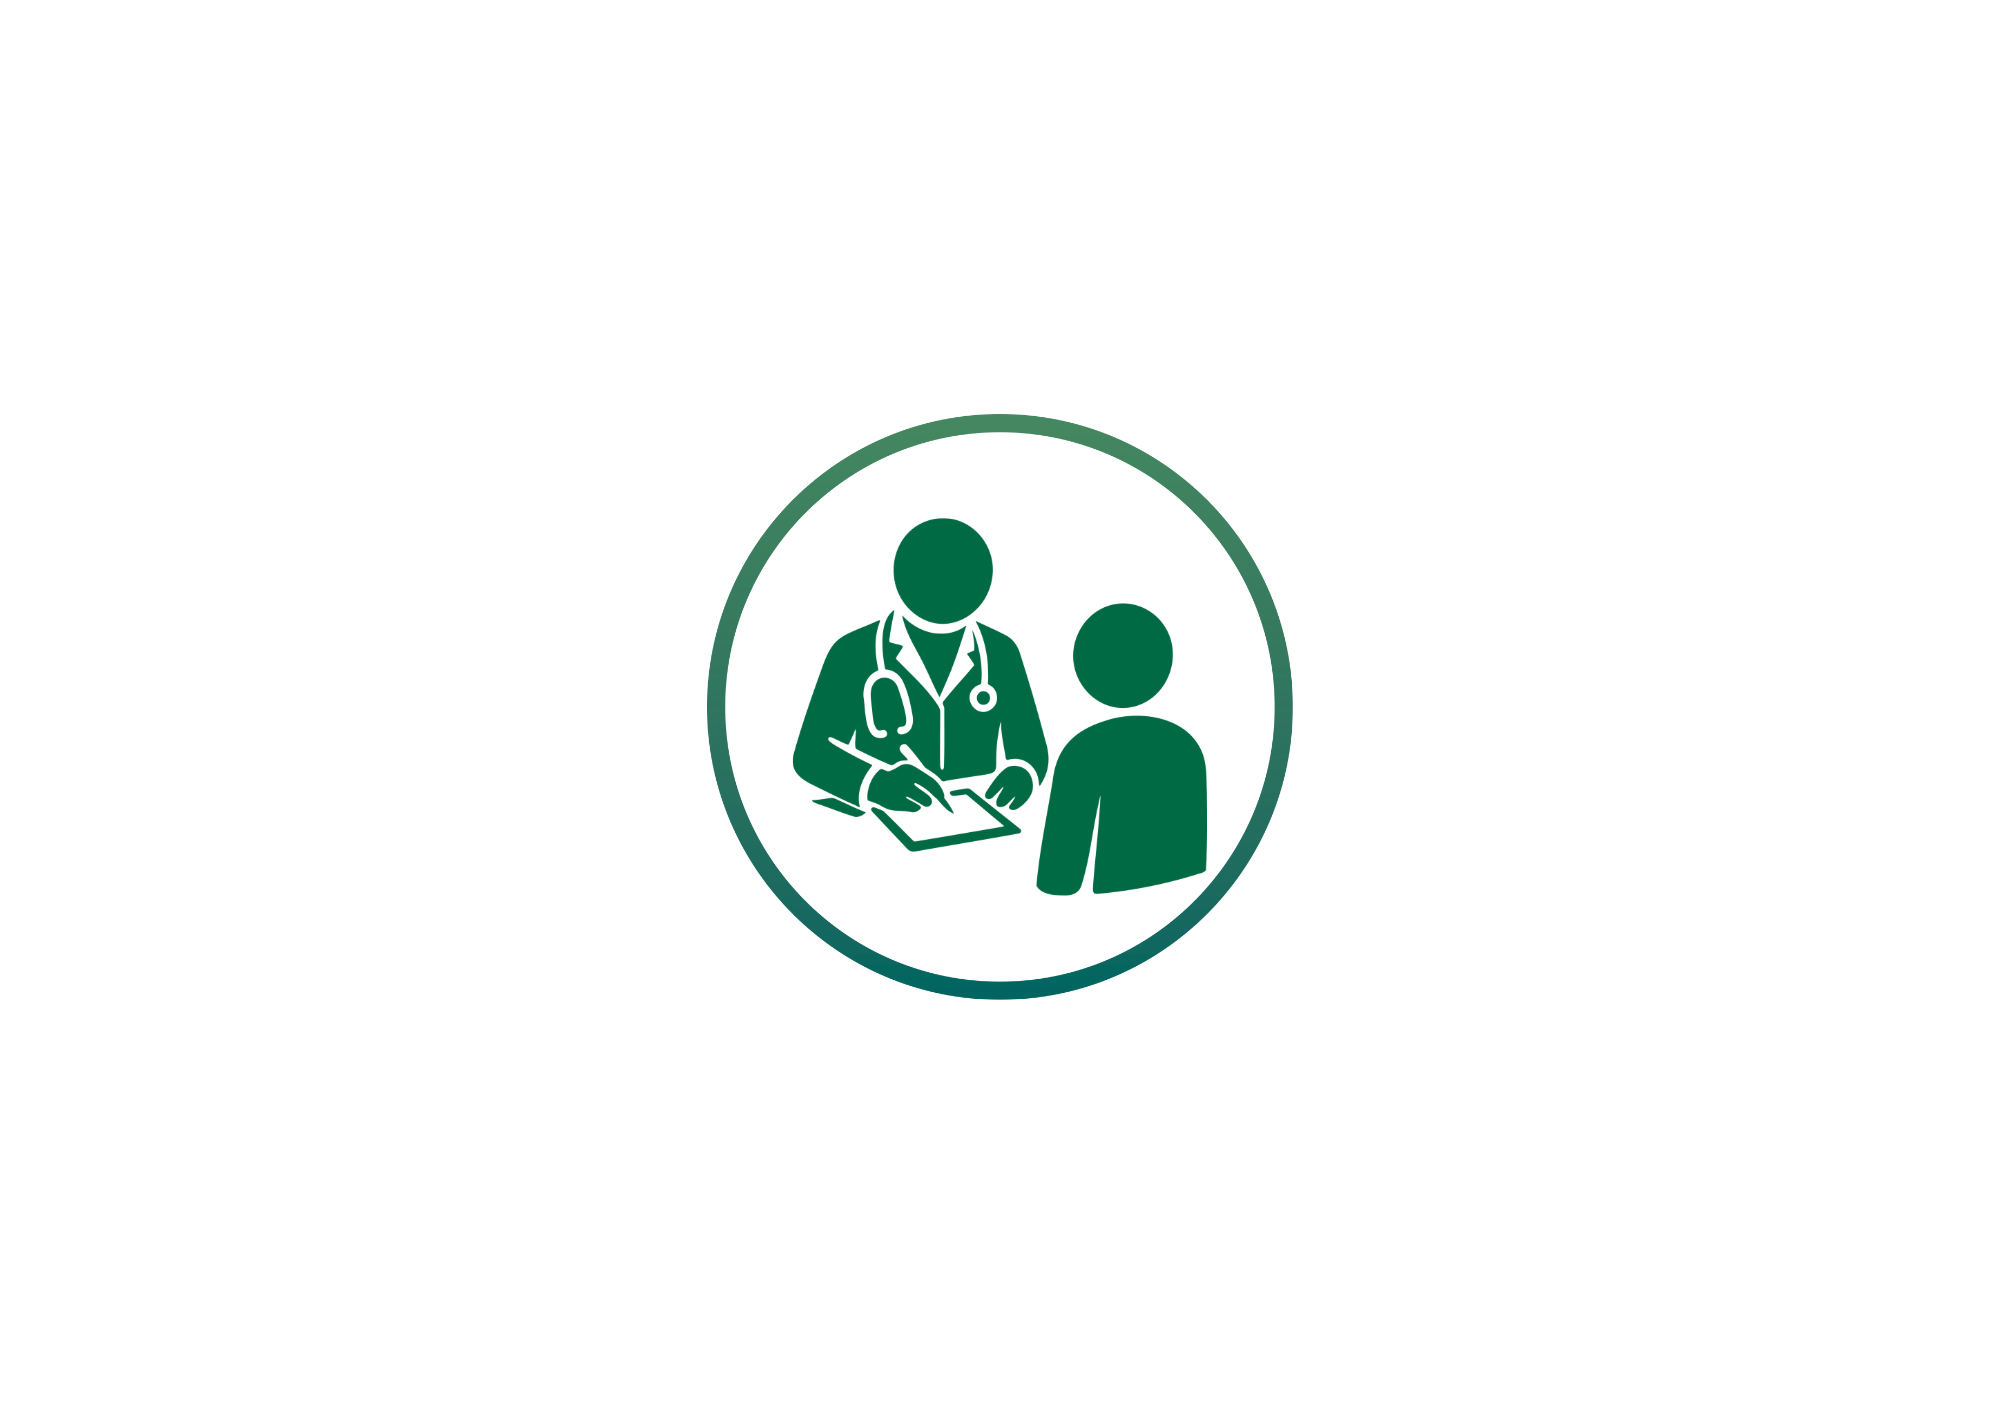
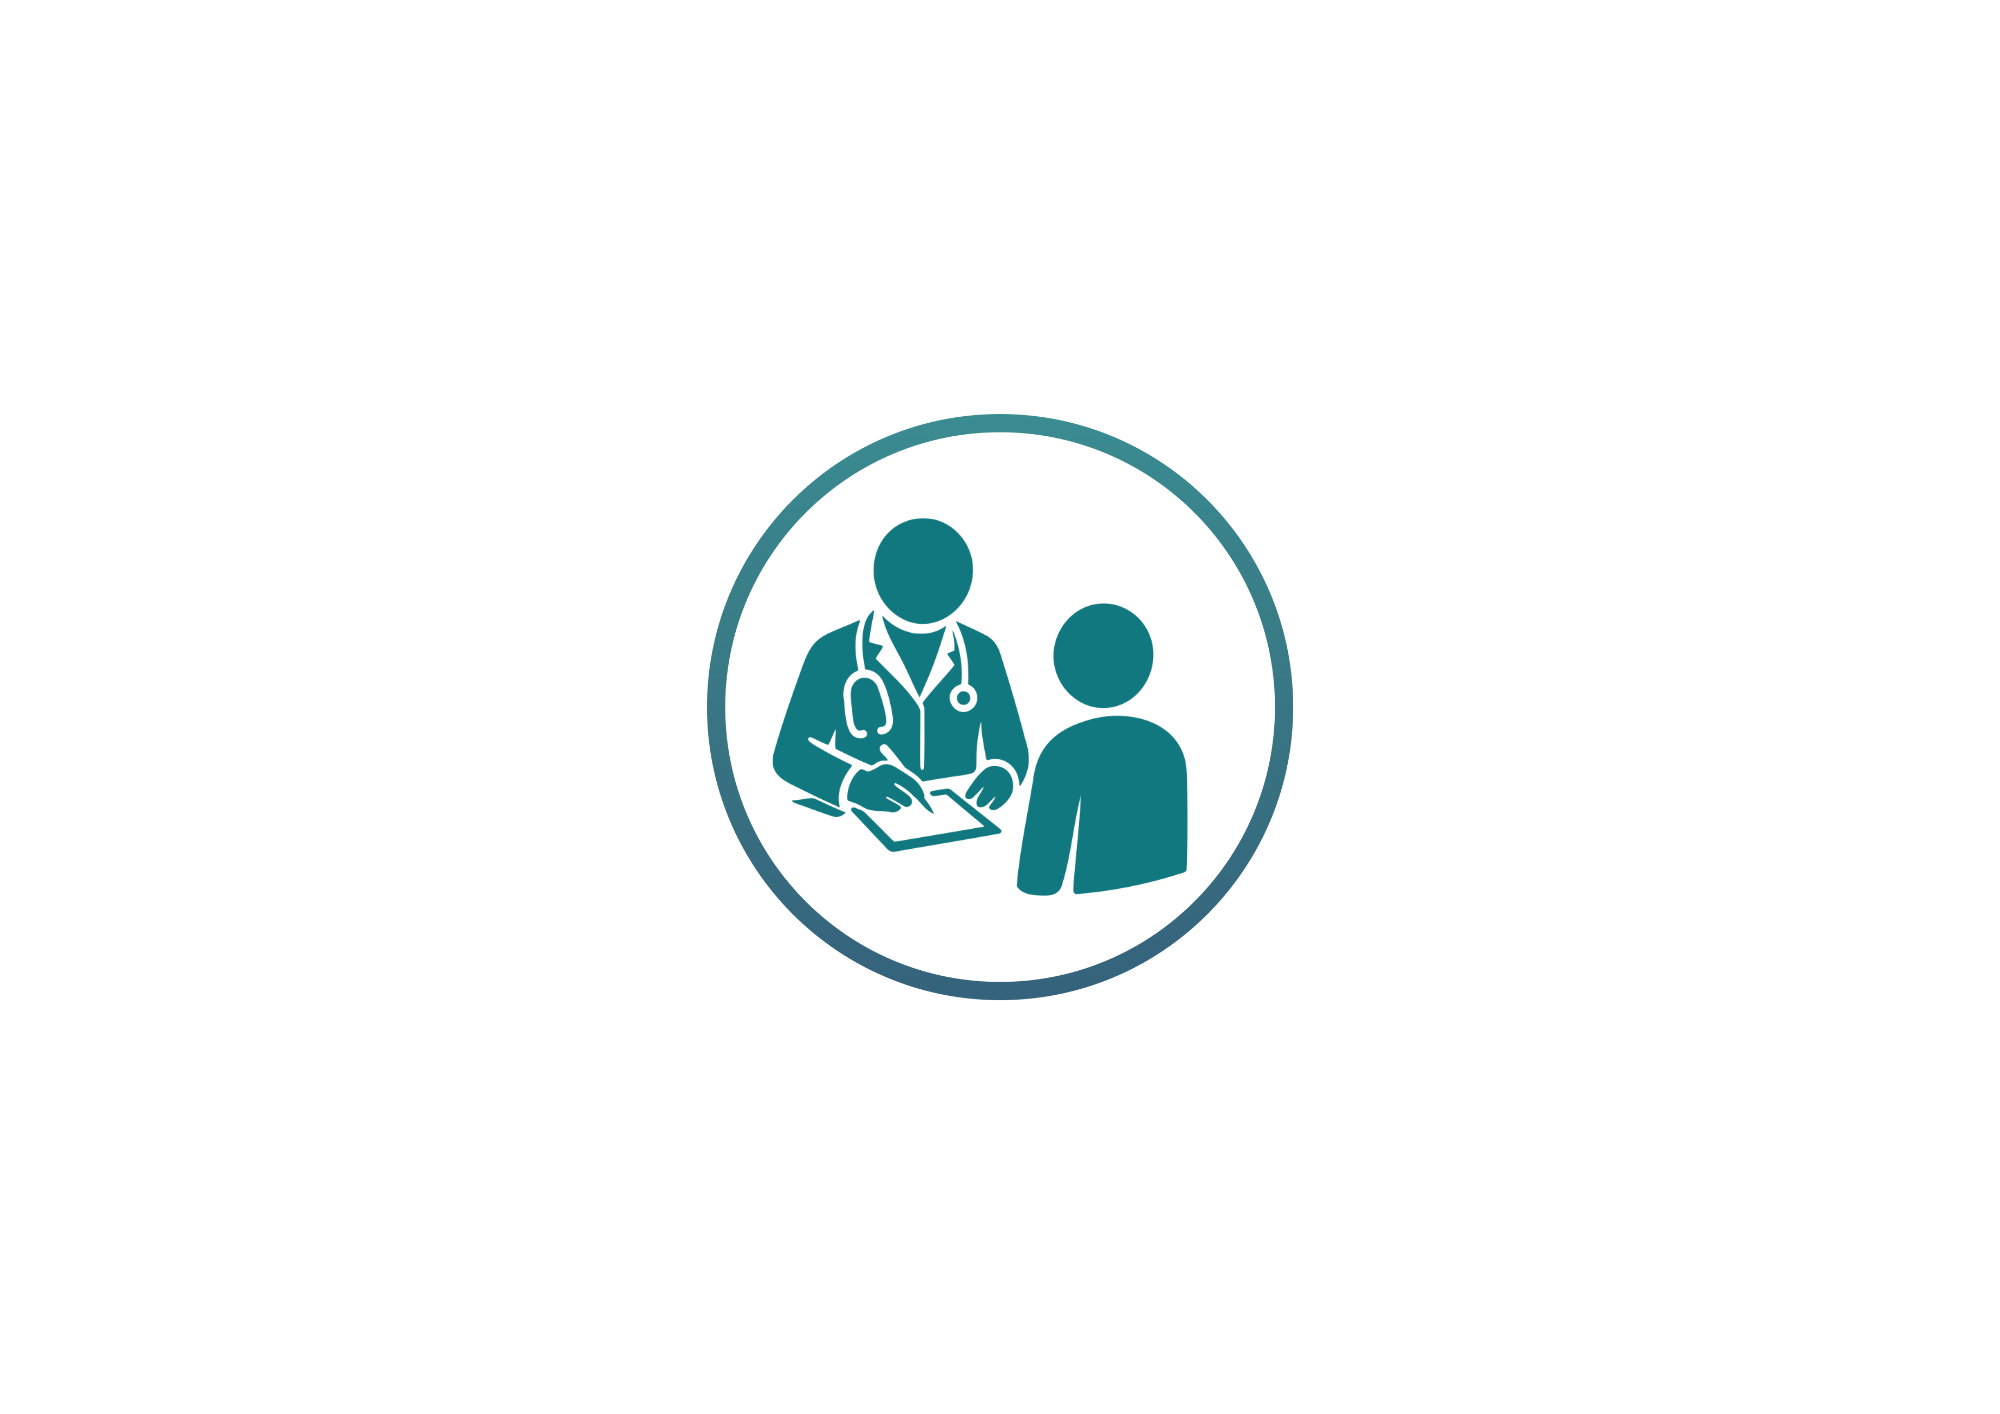
Lithuanian color

Changed region(s): [[0.341, 0.2801, 0.651, 0.6846], [0.372, 0.5912, 0.558, 0.7157]]

diff --git a/_sass/_layout.scss b/_sass/_layout.scss
@@ -45,7 +45,7 @@ body.sticky-bottom-footer {
   --global-text-color: #202020;
   --global-link-color: #C1272D; /* Lithuanian red */
   --global-link-hover-color: #FDB913; /* Lithuanian yellow */
-  --global-accent-color: #006A44; /* Lithuanian green */
+  --global-accent-color: #117880; /* Martinas color */
 }
 h1, h2, h3, h4, h5, h6 {
   color: var(--global-accent-color);
@@ -211,7 +211,7 @@ h1, h2, h3, h4, h5, h6 {
 /* Buttons */
 .term-link {
   display: inline-block;
-  background-color: #006a44;
+  background-color: #117880; /* new main color */
   color: #fff;
   text-decoration: none;
   padding: 0.35rem 0.8rem;
@@ -222,7 +222,7 @@ h1, h2, h3, h4, h5, h6 {
 }
 
 .term-link:hover {
-  background-color: #005a39;
+  background-color: #19929c; /* lighter hover */
   transform: scale(1.05);
 }
 
@@ -275,7 +275,7 @@ h1, h2, h3, h4, h5, h6 {
 
 .home-button {
   display: inline-block;
-  background-color: #006a44;
+  background-color: #117880;
   color: #fff;
   text-decoration: none;
   padding: 0.35rem 0.9rem;
@@ -286,7 +286,7 @@ h1, h2, h3, h4, h5, h6 {
 }
 
 .home-button:hover {
-  background-color: #005a39;
+  background-color: #19929c;
   transform: scale(1.05);
 }
 
@@ -370,7 +370,7 @@ h1, h2, h3, h4, h5, h6 {
 /* Reuse same link style for consistency */
 .term-link {
   display: inline-block;
-  background-color: #006a44;
+  background-color: #117880;
   color: #fff;
   text-decoration: none;
   padding: 0.35rem 0.8rem;
@@ -381,7 +381,7 @@ h1, h2, h3, h4, h5, h6 {
 }
 
 .term-link:hover {
-  background-color: #005a39;
+  background-color: #19929c;
   transform: scale(1.05);
 }
 

diff --git a/_sass/_base.scss b/_sass/_base.scss
@@ -291,17 +291,17 @@ ul.task-list input[type="checkbox"] {
     color: var(--global-text-color);
 
     &:hover {
-      color: var(--global-hover-color);
+      color: #117880;
     }
   }
 
   .navbar-nav .nav-item.active > .nav-link {
     background-color: inherit;
     font-weight: bolder;
-    color: var(--global-theme-color);
+    color: #117880;
 
     &:hover {
-      color: var(--global-hover-color);
+      color: #19929c;
     }
   }
 
